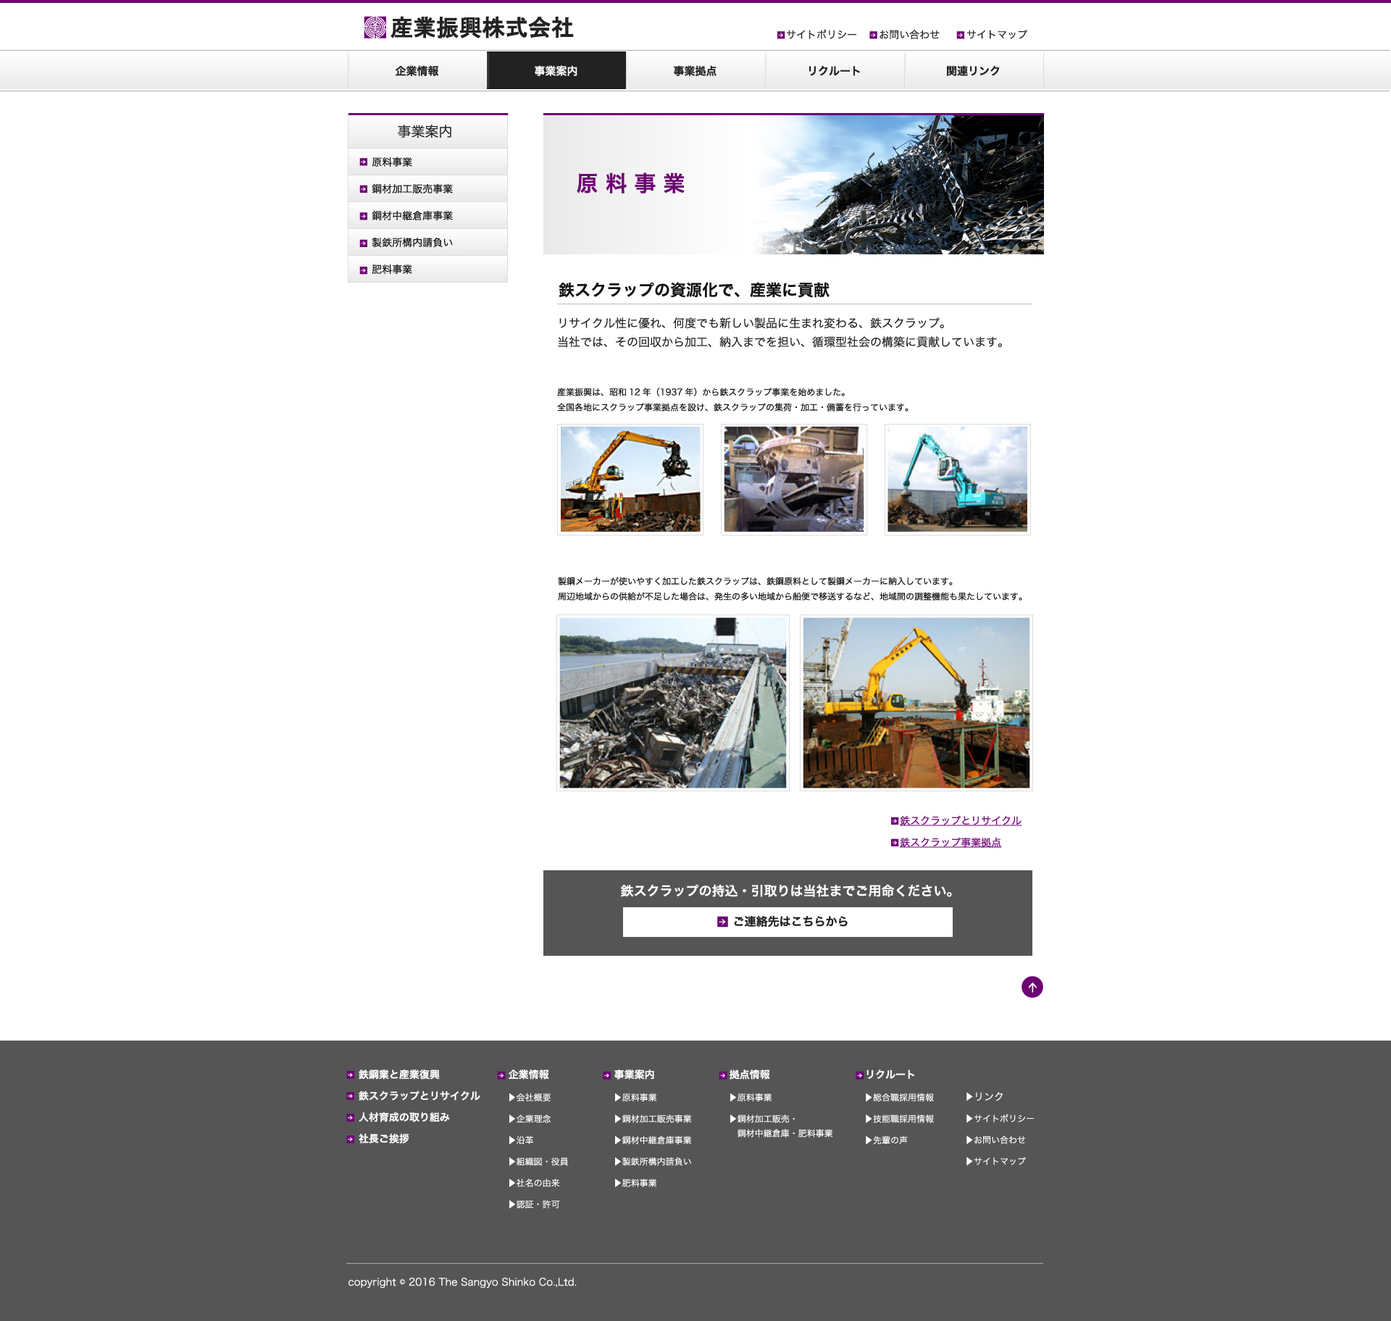
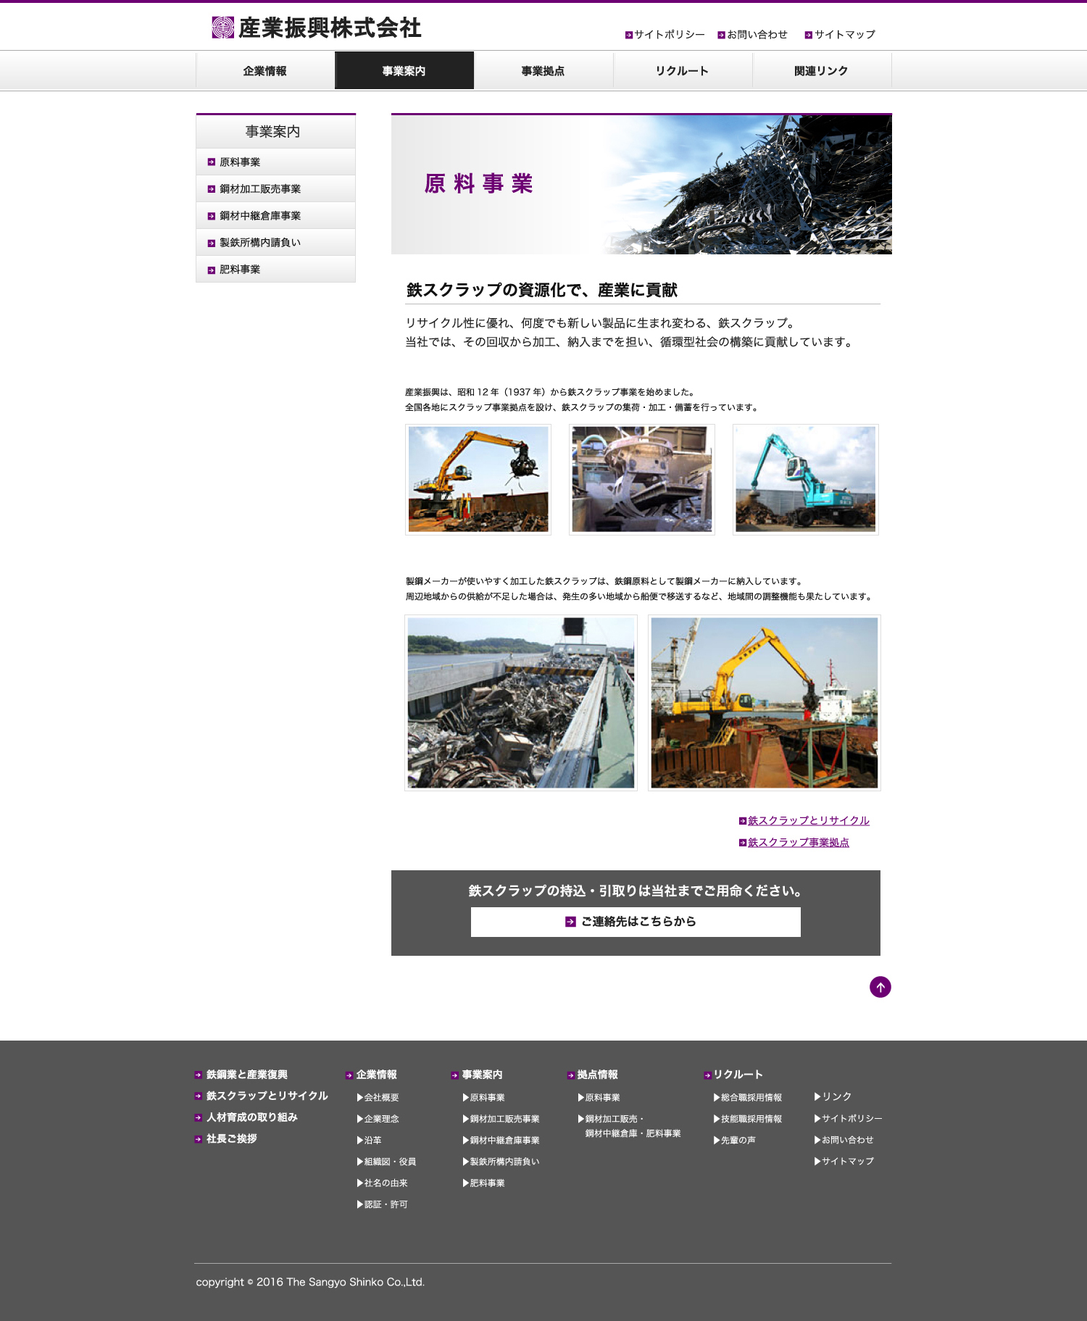
2階層以下のデータを修正しましたので、 入替お願いいたします。

diff --git a/other/kigyoujoho.html b/other/kigyoujoho.html
@@ -6,12 +6,13 @@
 </head>
 
 <body leftmargin="0" topmargin="0">
-<img src="images/kigyoujouhou_top.jpg" width="1920" height="1241" usemap="#Map2" border="0" />
-<map name="Map2" id="Map2"><area shape="rect" coords="694,918,769,947" href="kigyoujoho_gaiyo.html" /><area shape="rect" coords="492,918,671,940" href="/other/tetsutoscrap.html" target="_parent" /><area shape="rect" coords="491,946,633,973" href="/other/jinzai.html" /><area shape="rect" coords="489,977,573,999" href="/other/shachougoaisatsu.html" target="_parent" /><area shape="rect" coords="831,885,910,915" href="/other/jigyo_top.html" /><area shape="rect" coords="838,918,926,947" href="/other/jigyo_genryo.html" target="_parent" /><area shape="rect" coords="843,1035,912,1066" href="/other/jigyo_hiryou.html" target="_parent" /><area shape="rect" coords="683,887,766,918" href="/other/kigyoujoho.html" /><area shape="rect" coords="494,2081,673,2103" href="/other/tetsutoscrap.html" target="_parent" /><area shape="rect" coords="493,2109,635,2136" href="/other/jinzai.html" /><area shape="rect" coords="491,2140,575,2162" href="/other/shachougoaisatsu.html" target="_parent" /><area shape="rect" coords="833,2048,912,2078" href="/other/jigyo_top.html" /><area shape="rect" coords="840,2081,928,2110" href="/other/jigyo_genryo.html" target="_parent" /><area shape="rect" coords="845,2198,914,2229" href="/other/jigyo_hiryou.html" target="_parent" /><area shape="rect" coords="685,2050,768,2081" href="/other/kigyoujoho.html" />
-  <area shape="rect" coords="475,9,805,70" href="../index.html" target="_parent" />
-  <area shape="rect" coords="481,73,672,129" href="kigyoujoho.html" target="_parent" />
-  <area shape="rect" coords="678,71,862,128" href="jigyo_top.html" target="_parent" />
-  <area shape="rect" coords="473,348,953,463" href="kigyoujoho_gaiyo.html" target="_parent" />
+<img src="images/kigyoujouhou_top.jpg" width="1500" height="1360" usemap="#Map2" border="0" />
+<map name="Map2" id="Map2"><area shape="rect" coords="490,1040,558,1072" href="kigyoujoho_gaiyo.html" target="_parent" /><area shape="rect" coords="265,1073,418,1098" href="other/shachougoaisatsu.html" target="_parent" /><area shape="rect" coords="266,1039,458,1066" href="other/jinzai.html" target="_parent" /><area shape="rect" coords="267,1009,407,1033" href="other/tetsutoscrap.html" target="_parent" /><area shape="rect" coords="620,1006,701,1037" href="other/jigyo_top.html" target="_parent" /><area shape="rect" coords="634,1041,703,1072" href="other/jigyo_genryo.html" target="_parent" /><area shape="rect" coords="634,1157,705,1190" href="other/jigyo_hiryou.html" target="_parent" /><area shape="rect" coords="477,1004,560,1039" href="other/kigyoujoho.html" target="_parent" /><area shape="rect" coords="385,2280,525,2304" href="other/tetsutoscrap.html" target="_parent" /><area shape="rect" coords="385,2311,496,2340" href="other/jinzai.html" /><area shape="rect" coords="383,2345,449,2369" href="other/shachougoaisatsu.html" target="_parent" /><area shape="rect" coords="650,2244,712,2277" href="other/jigyo_top.html" /><area shape="rect" coords="656,2280,725,2312" href="other/jigyo_genryo.html" target="_parent" /><area shape="rect" coords="660,2408,714,2442" href="other/jigyo_hiryou.html" target="_parent" /><area shape="rect" coords="535,2246,600,2280" href="other/kigyoujoho.html" />
+  <area shape="rect" coords="288,5,602,62" href="../index.html" target="_parent" />
+  <area shape="rect" coords="270,68,464,124" href="kigyoujoho.html" target="_parent" />
+  <area shape="rect" coords="466,67,656,123" href="jigyo_top.html" target="_parent" />
+  <area shape="rect" coords="273,330,739,460" href="kigyoujoho_gaiyo.html" target="_parent" />
+  <area shape="rect" coords="270,743,740,861" href="shachougoaisatsu.html" target="_parent" />
 </map>
 <map name="Map" id="Map">
   <area shape="rect" coords="503,17,777,93" href="../index.html" target="_parent" />

diff --git a/other/jigyo_genryo.html b/other/jigyo_genryo.html
@@ -6,8 +6,27 @@
 </head>
 
 <body leftmargin="0" topmargin="0">
-<img src="images/jigyoannai_genryoujigyou.jpg" width="1920" height="1824" usemap="#Map2" border="0" />
-<map name="Map2" id="Map2"><area shape="rect" coords="684,1470,767,1501" href="/other/kigyoujoho.html" /><area shape="rect" coords="844,1618,913,1649" href="/other/jigyo_hiryou.html" target="_parent" /><area shape="rect" coords="839,1501,927,1530" href="/other/jigyo_genryo.html" target="_parent" /><area shape="rect" coords="832,1468,911,1498" href="/other/jigyo_top.html" /><area shape="rect" coords="490,1560,574,1582" href="/other/shachougoaisatsu.html" target="_parent" /><area shape="rect" coords="492,1529,634,1556" href="/other/jinzai.html" /><area shape="rect" coords="493,1501,672,1523" href="/other/tetsutoscrap.html" target="_parent" /><area shape="rect" coords="672,71,863,125" href="jigyo_genryo.html" target="_parent" />
+<table width="200" border="1">
+  <tr>
+    <td><img src="images/jigyoannai_genryoujigyou.jpg" alt="" width="1500" height="1824" usemap="#Map2Map" border="0" align="middle" />
+      <map name="Map2Map" id="Map2Map">
+        <area shape="rect" coords="485,1502,559,1530" href="kigyoujoho_gaiyo.html" target="_parent" />
+        <area shape="rect" coords="270,353,494,390" href="jigyo_hiryou.html" target="_parent" />
+        <area shape="rect" coords="270,203,491,240" href="jigyo_genryo.html" target="_parent" />
+        <area shape="rect" coords="274,71,462,123" href="kigyoujoho.html" target="_parent" />
+        <area shape="rect" coords="283,8,592,71" href="../index.html" target="_parent" />
+        <area shape="rect" coords="462,68,655,123" href="jigyo_genryo.html" target="_parent" />
+        <area shape="rect" coords="264,1563,357,1587" href="other/shachougoaisatsu.html" target="_parent" />
+        <area shape="rect" coords="266,1532,412,1557" href="other/jinzai.html" target="_parent" />
+        <area shape="rect" coords="267,1504,454,1527" href="other/tetsutoscrap.html" target="_parent" />
+        <area shape="rect" coords="619,1469,702,1496" href="other/jigyo_top.html" target="_parent" />
+        <area shape="rect" coords="633,1501,702,1530" href="other/jigyo_genryo.html" target="_parent" />
+        <area shape="rect" coords="635,1619,702,1652" href="other/jigyo_hiryou.html" target="_parent" />
+        <area shape="rect" coords="476,1474,554,1502" href="other/kigyoujoho.html" target="_parent" />
+    </map></td>
+  </tr>
+</table>
+<map name="Map2" id="Map2"><area shape="rect" coords="684,1470,767,1501" href="other/kigyoujoho.html" /><area shape="rect" coords="844,1618,913,1649" href="other/jigyo_hiryou.html" target="_parent" /><area shape="rect" coords="839,1501,927,1530" href="other/jigyo_genryo.html" target="_parent" /><area shape="rect" coords="832,1468,911,1498" href="other/jigyo_top.html" /><area shape="rect" coords="490,1560,574,1582" href="other/shachougoaisatsu.html" target="_parent" /><area shape="rect" coords="492,1529,634,1556" href="other/jinzai.html" /><area shape="rect" coords="493,1501,672,1523" href="other/tetsutoscrap.html" target="_parent" /><area shape="rect" coords="672,71,863,125" href="jigyo_genryo.html" target="_parent" />
   <area shape="rect" coords="475,9,805,70" href="../index.html" target="_parent" />
   <area shape="rect" coords="479,71,670,125" href="kigyoujoho.html" target="_parent" />
   <area shape="rect" coords="481,206,701,242" href="jigyo_genryo.html" target="_parent" />

diff --git a/other/jigyo_top.html b/other/jigyo_top.html
@@ -6,13 +6,13 @@
 </head>
 
 <body leftmargin="0" topmargin="0">
-<img src="images/jigyoannai_top.jpg" width="1920" height="1376" usemap="#Map2" border="0" />
-<map name="Map2" id="Map2"><area shape="rect" coords="695,1051,770,1080" href="kigyoujoho_gaiyo.html" /><area shape="rect" coords="493,1051,672,1073" href="/other/tetsutoscrap.html" target="_parent" /><area shape="rect" coords="492,1079,634,1106" href="/other/jinzai.html" /><area shape="rect" coords="490,1110,574,1132" href="/other/shachougoaisatsu.html" target="_parent" /><area shape="rect" coords="832,1018,911,1048" href="/other/jigyo_top.html" /><area shape="rect" coords="839,1051,927,1080" href="/other/jigyo_genryo.html" target="_parent" /><area shape="rect" coords="844,1168,913,1199" href="/other/jigyo_hiryou.html" target="_parent" /><area shape="rect" coords="684,1020,767,1051" href="/other/kigyoujoho.html" /><area shape="rect" coords="672,71,863,125" href="jigyo_top.html" target="_parent" />
-  <area shape="rect" coords="475,9,805,70" href="../index.html" target="_parent" />
-  <area shape="rect" coords="479,71,670,125" href="kigyoujoho.html" target="_parent" />
-  <area shape="rect" coords="1134,699,1436,874" href="http://www.nouryoku-up.net" target="_blank" />
-  <area shape="rect" coords="810,695,1118,837" href="jigyo_hiryou.html" target="_parent" />
-  <area shape="rect" coords="479,480,792,624" href="jigyo_genryo.html" target="_parent" />
+<img src="images/jigyoannai_top.jpg" width="1500" height="1377" usemap="#Map2" border="0" />
+<map name="Map2" id="Map2"><area shape="rect" coords="482,1055,555,1083" href="kigyoujoho_gaiyo.html" target="_parent" /><area shape="rect" coords="266,1114,357,1137" href="other/shachougoaisatsu.html" target="_parent" /><area shape="rect" coords="268,1083,412,1110" href="other/jinzai.html" target="_parent" /><area shape="rect" coords="269,1055,454,1080" href="other/tetsutoscrap.html" target="_parent" /><area shape="rect" coords="620,1021,700,1049" href="other/jigyo_top.html" target="_parent" /><area shape="rect" coords="637,1054,706,1083" href="other/jigyo_genryo.html" target="_parent" /><area shape="rect" coords="636,1172,704,1205" href="other/jigyo_hiryou.html" target="_parent" /><area shape="rect" coords="474,1024,553,1051" href="other/kigyoujoho.html" target="_parent" /><area shape="rect" coords="464,71,652,123" href="jigyo_top.html" target="_parent" />
+  <area shape="rect" coords="277,7,594,67" href="../index.html" target="_parent" />
+  <area shape="rect" coords="268,72,461,126" href="kigyoujoho.html" target="_parent" />
+  <area shape="rect" coords="925,699,1227,875" href="http://www.nouryoku-up.net" target="_blank" />
+  <area shape="rect" coords="597,698,904,871" href="jigyo_hiryou.html" target="_parent" />
+  <area shape="rect" coords="271,482,582,656" href="jigyo_genryo.html" target="_parent" />
 </map>
 <map name="Map" id="Map">
   <area shape="rect" coords="503,17,777,93" href="../index.html" target="_parent" />

diff --git a/other/kigyoujoho_gaiyo.html b/other/kigyoujoho_gaiyo.html
@@ -2,15 +2,17 @@
 <html xmlns="http://www.w3.org/1999/xhtml">
 <head>
 <meta http-equiv="Content-Type" content="text/html; charset=UTF-8" />
-<title>企業情報</title>
+<title>企業情報＞会社概要</title>
 </head>
 
 <body leftmargin="0" topmargin="0">
-<img src="images/kigyoujouhou_kaishagaiyou.jpg" width="1920" height="2401" usemap="#Map2" border="0" />
-<map name="Map2" id="Map2"><area shape="rect" coords="695,2083,770,2112" href="kigyoujoho_gaiyo.html" /><area shape="rect" coords="494,2081,673,2103" href="/other/tetsutoscrap.html" target="_parent" /><area shape="rect" coords="493,2109,635,2136" href="/other/jinzai.html" /><area shape="rect" coords="491,2140,575,2162" href="/other/shachougoaisatsu.html" target="_parent" /><area shape="rect" coords="833,2048,912,2078" href="/other/jigyo_top.html" /><area shape="rect" coords="840,2081,928,2110" href="/other/jigyo_genryo.html" target="_parent" /><area shape="rect" coords="845,2198,914,2229" href="/other/jigyo_hiryou.html" target="_parent" /><area shape="rect" coords="685,2050,768,2081" href="/other/kigyoujoho.html" />
-  <area shape="rect" coords="475,9,805,70" href="../index.html" target="_parent" />
-  <area shape="rect" coords="481,73,672,129" href="kigyoujoho.html" target="_parent" />
-  <area shape="rect" coords="678,71,862,128" href="jigyo_top.html" target="_parent" />
+<img src="images/kigyoujouhou_kaishagaiyou.jpg" width="1500" height="2400" usemap="#Map2" border="0" />
+<map name="Map2" id="Map2"><area shape="rect" coords="486,2081,558,2107" href="kigyoujoho_gaiyo.html" target="_parent" /><area shape="rect" coords="261,2141,379,2162" href="other/shachougoaisatsu.html" target="_parent" /><area shape="rect" coords="266,2082,462,2105" href="other/tetsutoscrap.html" target="_parent" /><area shape="rect" coords="265,2110,419,2137" href="other/jinzai.html" target="_parent" /><area shape="rect" coords="621,2047,705,2076" href="other/jigyo_top.html" target="_parent" /><area shape="rect" coords="633,2081,702,2110" href="other/jigyo_genryo.html" target="_parent" /><area shape="rect" coords="635,2195,704,2227" href="other/jigyo_hiryou.html" target="_parent" /><area shape="rect" coords="471,2048,555,2076" href="other/kigyoujoho.html" target="_parent" />
+  <area shape="rect" coords="270,5,593,65" href="../index.html" target="_parent" />
+  <area shape="rect" coords="270,68,459,123" href="kigyoujoho.html" target="_parent" />
+  <area shape="rect" coords="464,68,652,125" href="jigyo_top.html" target="_parent" />
+  <area shape="rect" coords="271,427,489,464" href="shachougoaisatsu.html" target="_parent" />
+  <area shape="rect" coords="270,204,494,241" href="kigyoujoho_gaiyo.html" target="_parent" />
 </map>
 <map name="Map" id="Map">
   <area shape="rect" coords="503,17,777,93" href="../index.html" target="_parent" />

diff --git a/other/jigyo_hiryou.html b/other/jigyo_hiryou.html
@@ -6,8 +6,8 @@
 </head>
 
 <body leftmargin="0" topmargin="0">
-<img src="images/jigyoannai_hiryoujigyou.jpg" width="1920" height="2368" usemap="#Map2" border="0" />
-<map name="Map2" id="Map2"><area shape="rect" coords="683,2014,766,2045" href="/other/kigyoujoho.html" /><area shape="rect" coords="843,2162,912,2193" href="/other/jigyo_hiryou.html" target="_parent" /><area shape="rect" coords="838,2045,926,2074" href="/other/jigyo_genryo.html" target="_parent" /><area shape="rect" coords="831,2012,910,2042" href="/other/jigyo_top.html" /><area shape="rect" coords="489,2104,573,2126" href="/other/shachougoaisatsu.html" target="_parent" /><area shape="rect" coords="491,2073,633,2100" href="/other/jinzai.html" /><area shape="rect" coords="492,2045,671,2067" href="/other/tetsutoscrap.html" target="_parent" /><area shape="rect" coords="694,2045,769,2074" href="kigyoujoho_gaiyo.html" /><area shape="rect" coords="475,9,805,70" href="../index.html" target="_parent" /><area shape="rect" coords="479,71,670,125" href="kigyoujoho.html" target="_parent" /><area shape="rect" coords="481,206,701,242" href="jigyo_genryo.html" target="_parent" /><area shape="rect" coords="480,352,702,390" href="jigyo_hiryou.html" target="_parent" /><area shape="rect" coords="672,71,863,125" href="jigyo_genryo.html" target="_parent" />
+<img src="images/jigyoannai_hiryoujigyou.jpg" width="1500" height="2374" usemap="#Map2" border="0" />
+<map name="Map2" id="Map2"><area shape="rect" coords="487,2050,559,2077" href="kigyoujoho_gaiyo.html" target="_parent" /><area shape="rect" coords="632,2168,702,2198" href="other/jigyo_hiryou.html" target="_parent" /><area shape="rect" coords="634,2050,703,2079" href="other/jigyo_genryo.html" target="_parent" /><area shape="rect" coords="615,2017,705,2046" href="other/jigyo_top.html" target="_parent" /><area shape="rect" coords="264,2110,358,2133" href="other/shachougoaisatsu.html" target="_parent" /><area shape="rect" coords="265,2079,408,2107" href="other/jinzai.html" target="_parent" /><area shape="rect" coords="266,2051,454,2073" href="other/tetsutoscrap.html" target="_parent" /><area shape="rect" coords="474,2019,558,2048" href="other/kigyoujoho.html" target="_parent" /><area shape="rect" coords="287,6,605,67" href="../index.html" target="_parent" /><area shape="rect" coords="271,71,460,123" href="kigyoujoho.html" target="_parent" /><area shape="rect" coords="270,207,487,240" href="jigyo_genryo.html" target="_parent" /><area shape="rect" coords="272,351,490,391" href="jigyo_hiryou.html" target="_parent" /><area shape="rect" coords="463,71,650,123" href="jigyo_genryo.html" target="_parent" />
 </map>
 <map name="Map2">
   <area shape="rect" coords="475,9,805,70" href="../index.html" target="_parent" />

diff --git a/other/shachougoaisatsu.html b/other/shachougoaisatsu.html
@@ -6,11 +6,11 @@
 </head>
 
 <body leftmargin="0" topmargin="0">
-<img src="images/shachougoaisatsu.jpg" width="1920" height="1426" usemap="#Map2" border="0" />
-<map name="Map2" id="Map2"><area shape="rect" coords="696,1106,771,1135" href="kigyoujoho_gaiyo.html" /><area shape="rect" coords="685,1073,768,1104" href="/other/kigyoujoho.html" /><area shape="rect" coords="845,1221,914,1252" href="/other/jigyo_hiryou.html" target="_parent" /><area shape="rect" coords="840,1104,928,1133" href="/other/jigyo_genryo.html" target="_parent" /><area shape="rect" coords="833,1071,912,1101" href="/other/jigyo_top.html" /><area shape="rect" coords="491,1163,575,1185" href="/other/shachougoaisatsu.html" target="_parent" /><area shape="rect" coords="493,1132,635,1159" href="/other/jinzai.html" /><area shape="rect" coords="494,1104,673,1126" href="/other/tetsutoscrap.html" target="_parent" />
-  <area shape="rect" coords="475,9,805,70" href="../index.html" target="_parent" />
-  <area shape="rect" coords="481,73,672,129" href="kigyoujoho.html" target="_parent" />
-  <area shape="rect" coords="678,71,862,128" href="jigyo_top.html" target="_parent" />
+<img src="images/shachougoaisatsu.jpg" width="1500" height="1426" usemap="#Map2" border="0" />
+<map name="Map2" id="Map2"><area shape="rect" coords="461,70,654,127" href="jigyo_top.html" target="_parent" /><area shape="rect" coords="272,69,458,125" href="kigyoujoho.html" target="_parent" /><area shape="rect" coords="285,6,611,65" href="../index.html" target="_parent" /><area shape="rect" coords="262,1161,368,1185" href="other/shachougoaisatsu.html" target="_parent" /><area shape="rect" coords="264,1130,413,1160" href="other/jinzai.html" target="_parent" /><area shape="rect" coords="264,1102,463,1126" href="other/tetsutoscrap.html" target="_parent" /><area shape="rect" coords="622,1071,702,1101" href="other/jigyo_top.html" target="_parent" /><area shape="rect" coords="633,1104,702,1133" href="other/jigyo_genryo.html" target="_parent" />
+  <area shape="rect" coords="634,1219,704,1250" href="other/jigyo_hiryou.html" target="_parent" />
+  <area shape="rect" coords="486,1106,553,1131" href="kigyoujoho_gaiyo.html" target="_parent" />
+  <area shape="rect" coords="478,1072,559,1101" href="other/kigyoujoho.html" target="_parent" />
 </map>
 <map name="Map" id="Map">
   <area shape="rect" coords="503,17,777,93" href="../index.html" target="_parent" />

diff --git a/other/tetsutoscrap.html b/other/tetsutoscrap.html
@@ -6,11 +6,11 @@
 </head>
 
 <body leftmargin="0" topmargin="0">
-<img src="images/tetsutoscrap.jpg" width="1920" height="3655" usemap="#Map2" border="0" />
-<map name="Map2" id="Map2"><area shape="rect" coords="692,3334,767,3363" href="kigyoujoho_gaiyo.html" /><area shape="rect" coords="493,3331,672,3353" href="/other/tetsutoscrap.html" target="_parent" /><area shape="rect" coords="492,3359,634,3386" href="/other/jinzai.html" /><area shape="rect" coords="490,3390,574,3412" href="/other/shachougoaisatsu.html" target="_parent" /><area shape="rect" coords="832,3298,911,3328" href="/other/jigyo_top.html" /><area shape="rect" coords="839,3331,927,3360" href="/other/jigyo_genryo.html" target="_parent" /><area shape="rect" coords="844,3448,913,3479" href="/other/jigyo_hiryou.html" target="_parent" /><area shape="rect" coords="684,3300,767,3331" href="/other/kigyoujoho.html" />
-  <area shape="rect" coords="475,9,805,70" href="../index.html" target="_parent" />
-  <area shape="rect" coords="481,73,672,129" href="kigyoujoho.html" target="_parent" />
-  <area shape="rect" coords="678,71,862,128" href="jigyo_genryo.html" target="_parent" />
+<img src="images/tetsutoscrap.jpg" width="1500" height="3654" usemap="#Map2" border="0" />
+<map name="Map2" id="Map2"><area shape="rect" coords="263,3392,361,3414" href="other/shachougoaisatsu.html" target="_parent" /><area shape="rect" coords="481,3333,562,3360" href="kigyoujoho_gaiyo.html" target="_parent" /><area shape="rect" coords="634,3449,713,3479" href="other/jigyo_hiryou.html" target="_parent" /><area shape="rect" coords="630,3331,699,3360" href="other/jigyo_genryo.html" target="_parent" /><area shape="rect" coords="265,3361,418,3386" href="other/jinzai.html" target="_parent" /><area shape="rect" coords="266,3333,450,3355" href="other/tetsutoscrap.html" target="_parent" /><area shape="rect" coords="475,3301,556,3328" href="other/kigyoujoho.html" target="_parent" /><area shape="rect" coords="625,3299,701,3328" href="other/jigyo_top.html" target="_parent" />
+  <area shape="rect" coords="466,69,651,124" href="jigyo_genryo.html" target="_parent" />
+  <area shape="rect" coords="277,67,464,123" href="kigyoujoho.html" target="_parent" />
+  <area shape="rect" coords="273,1,590,64" href="../index.html" target="_parent" />
 </map>
 <map name="Map" id="Map">
   <area shape="rect" coords="503,17,777,93" href="../index.html" target="_parent" />

diff --git a/other/jinzai.html b/other/jinzai.html
@@ -12,11 +12,11 @@ body {
 </head>
 
 <body>
-<img src="images/jinzaiikusei.jpg" width="1920" height="1908" usemap="#Map2" border="0" />
-<map name="Map2" id="Map2"><area shape="rect" coords="695,1587,770,1616" href="kigyoujoho_gaiyo.html" /><area shape="rect" coords="493,1587,672,1609" href="/other/tetsutoscrap.html" target="_parent" /><area shape="rect" coords="492,1615,634,1642" href="/other/jinzai.html" /><area shape="rect" coords="490,1646,574,1668" href="/other/shachougoaisatsu.html" target="_parent" /><area shape="rect" coords="832,1554,911,1584" href="/other/jigyo_top.html" /><area shape="rect" coords="839,1587,927,1616" href="/other/jigyo_genryo.html" target="_parent" /><area shape="rect" coords="844,1704,913,1735" href="/other/jigyo_hiryou.html" target="_parent" /><area shape="rect" coords="684,1556,767,1587" href="/other/kigyoujoho.html" />
-  <area shape="rect" coords="672,71,863,125" href="jigyo_top.html" target="_parent" />
-  <area shape="rect" coords="475,9,805,70" href="../index.html" target="_parent" />
-  <area shape="rect" coords="479,71,670,125" href="kigyoujoho.html" target="_parent" />
+<img src="images/jinzaiikusei.jpg" width="1500" height="1912" usemap="#Map2" border="0" />
+<map name="Map2" id="Map2"><area shape="rect" coords="492,1593,558,1620" href="kigyoujoho_gaiyo.html" target="_parent" /><area shape="rect" coords="266,1650,359,1671" href="other/shachougoaisatsu.html" target="_parent" /><area shape="rect" coords="268,1619,416,1647" href="other/jinzai.html" target="_parent" /><area shape="rect" coords="269,1591,459,1617" href="other/tetsutoscrap.html" target="_parent" /><area shape="rect" coords="620,1558,699,1586" href="other/jigyo_top.html" target="_parent" /><area shape="rect" coords="635,1590,704,1619" href="other/jigyo_genryo.html" target="_parent" /><area shape="rect" coords="634,1708,710,1739" href="other/jigyo_hiryou.html" target="_parent" /><area shape="rect" coords="474,1561,562,1585" href="other/kigyoujoho.html" target="_parent" />
+  <area shape="rect" coords="466,70,647,124" href="jigyo_top.html" target="_parent" />
+  <area shape="rect" coords="288,6,593,66" href="../index.html" target="_parent" />
+  <area shape="rect" coords="275,73,458,123" href="kigyoujoho.html" target="_parent" />
 </map>
 <map name="Map" id="Map">
   <area shape="rect" coords="503,17,777,93" href="../index.html" target="_parent" />

diff --git a/index.html b/index.html
@@ -126,7 +126,7 @@
                     <a href="/other/tetsutoscrap.html"><img src="images/topcontents_02.jpg" alt="tetsusukurappu"></a>
                 </div>
                 <div class="col-1-4 mr15">
-                    <a href=""><img src="images/topcontents_03.jpg" alt="jinzaiikusei"></a>
+                    <a href="/other/jinzai.html"><img src="images/topcontents_03.jpg" alt="jinzaiikusei"></a>
                 </div>
                 <div class="col-1-4">
                     <a href="/other/shachougoaisatsu.html"><img src="images/topcontents_04.jpg" alt="syatyougoaisatsu"></a>
